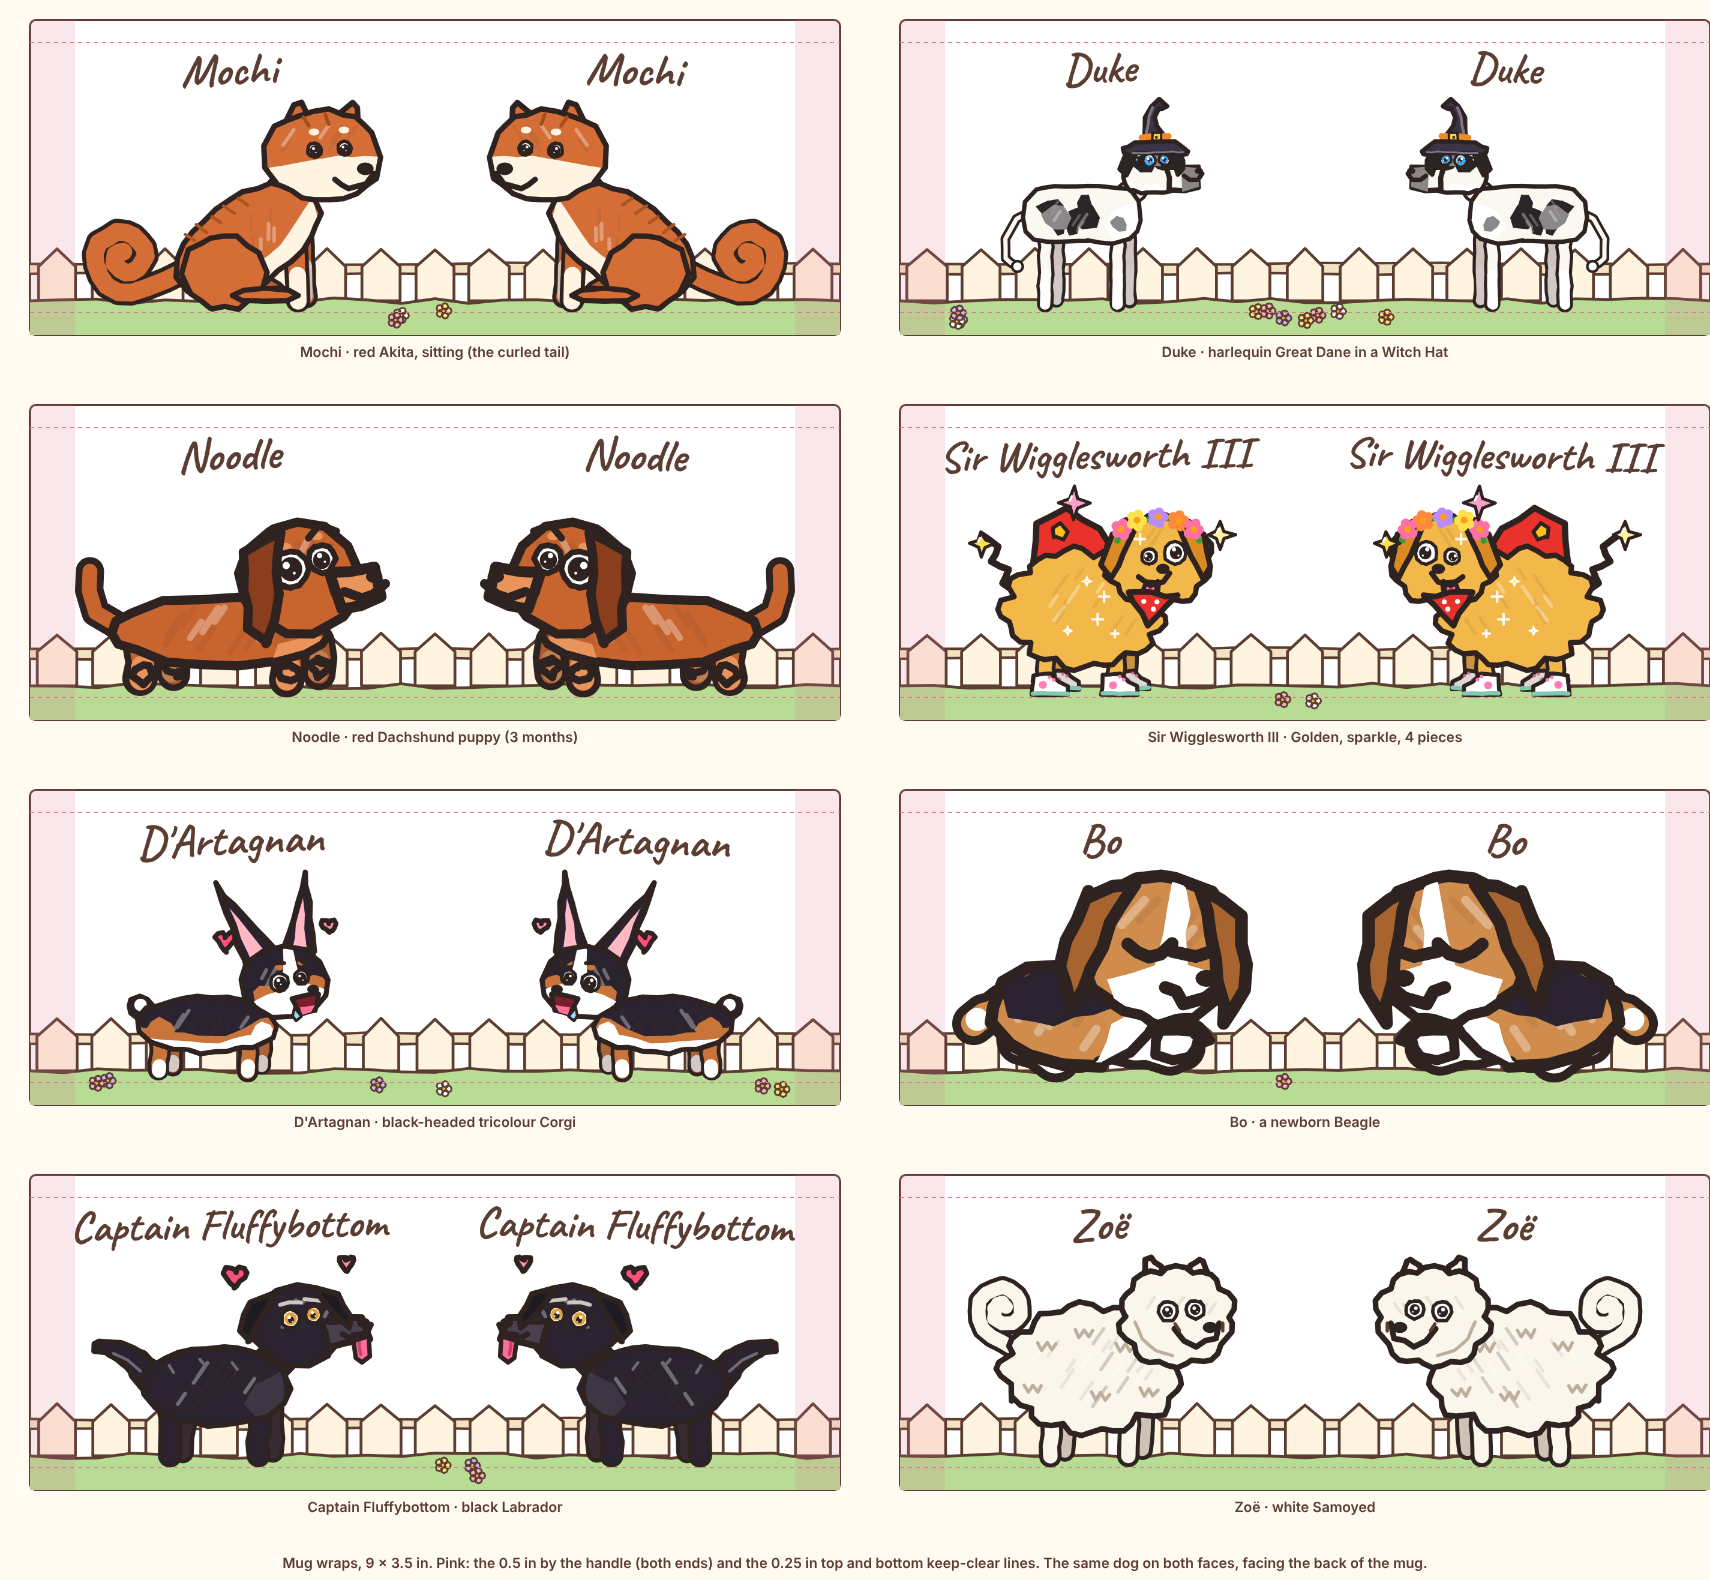
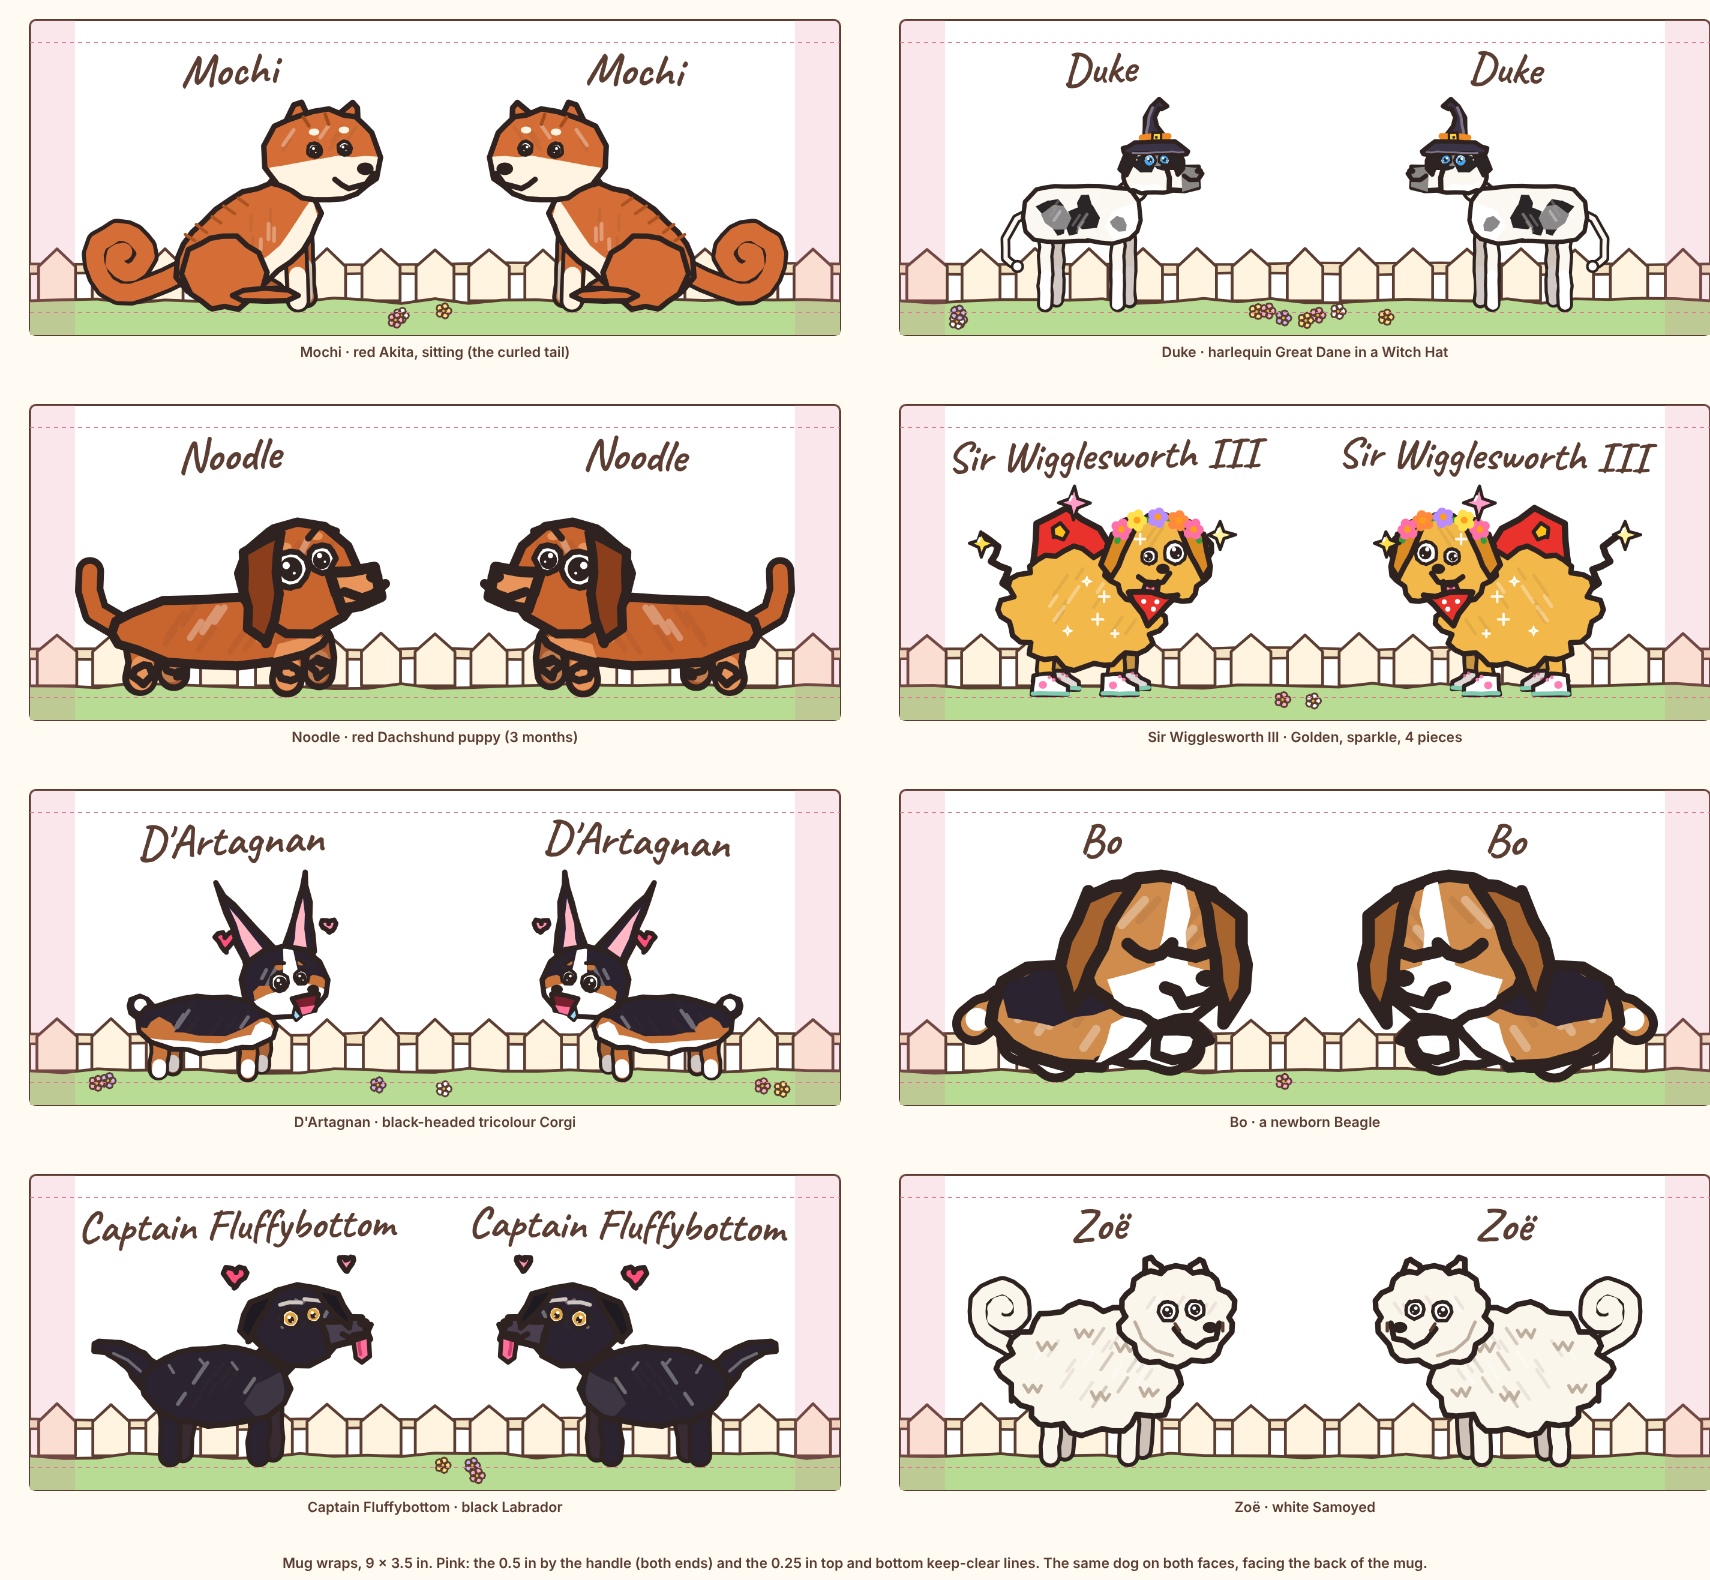
Merch part 9: R2-m4, a long mug name keeps 25 px clear of the handle line (build pp1-6df20bb6; the pre-launch pp1-5688199b folder removed; the mug sample remade)
Claude-Session: https://claude.ai/code/session_01D6KLY4FcqQgUYQKpcr8J68

diff --git a/site/merch/print/pp1-6df20bb6/pawprint.js b/site/merch/print/pp1-6df20bb6/pawprint.js
@@ -4902,8 +4902,8 @@ function PawPrintMake(PA, PG, FONT, NAMES, BUILD) {
     mug: { id: 'mug', name: 'Mug, 11 oz white', launch: true, w: 2700, h: 1050, dpi: DPI, inches: [9, 3.5], transparent: true,
       printful: { product: 19, placement: 'default', technique: 'sublimation' },
       // one face per side, centred at sides[]: the dog fills sideW x (height - name), the name a nameW-wide band above it, as tall as the name needs at nameMin and
-      // at most nameH[1] (it takes what the dog leaves at 80 mm, never less than its own line)
-      safe: { top: 75, bottom: 75, ends: 150 }, sides: [675, 2025], sideW: 1050, nameW: 1050, strip: 300, nameH: [100, 190], nameMin: NAME_MIN_PX,
+      // at most nameH[1] (it takes what the dog leaves at 80 mm, never less than its own line); a name keeps nameIn px clear of the handle keep-clear line
+      safe: { top: 75, bottom: 75, ends: 150 }, sides: [675, 2025], sideW: 1050, nameW: 1050, nameIn: 25, strip: 300, nameH: [100, 190], nameMin: NAME_MIN_PX,
       scale: 'fill', poses: POSE3, colours: WHITE },
     // no stickers at launch (owner, 24 Nov 2026): the sheet is kept and tested, but not offered (launch: false)
     stickers: { id: 'stickers', name: 'Kiss-cut sticker sheet, A5', launch: false, w: 1749, h: 2481, dpi: DPI, inches: [5.83, 8.27], transparent: true,
@@ -5082,7 +5082,15 @@ function PawPrintMake(PA, PG, FONT, NAMES, BUILD) {
     out.push(weight(yardStrip(P.w, P.h - P.strip, P.strip, MIN_PX * 1.6, (r.p ^ 0x5A5A) >>> 0, keep, S.ends), 1, MIN_PX).s);
     out.push(...dogs);
     let size = 0;
-    if (name) P.sides.forEach((cx, i) => { const N = fitName(name, [cx - P.nameW / 2, top, P.nameW, ns], Math.max(ns * 0.8, P.nameMin), mugRot(name, i), P.nameMin); if (!N) throw new Error('name: long'); out.push(N.svg); names.push(N.bb); size = N.size; });
+    // second review (R2-m4): a name stays P.nameIn px inside the handle's keep-clear line: centred over its dog, and a long one that would come
+    // nearer the handle moves towards the middle of its side by what it lacks (the same band width, so the same size; nameFit is unchanged)
+    if (name) P.sides.forEach((cx, i) => {
+      const fit = (x0) => fitName(name, [x0, top, P.nameW, ns], Math.max(ns * 0.8, P.nameMin), mugRot(name, i), P.nameMin);
+      let N = fit(cx - P.nameW / 2); if (!N) throw new Error('name: long');
+      const lack = i ? N.bb[2] - (P.w - S.ends - P.nameIn) : S.ends + P.nameIn - N.bb[0];
+      if (lack > 0) { N = fit(cx - P.nameW / 2 + (i ? -lack : lack)); if (!N) throw new Error('name: long'); }
+      out.push(N.svg); names.push(N.bb); size = N.size;
+    });
     Object.assign(st, { k: f2(k), artMM: f2(240 * k / MM), dogBox: boxes, nest: nests, name: name ? { text: name, size, bb: names } : null });
     return out.join('');
   }
@@ -5259,6 +5267,6 @@ function PawPrintMake(PA, PG, FONT, NAMES, BUILD) {
 if (typeof module !== 'undefined' && module.exports) module.exports = PawPrintMake;
 
   return PawPrintMake; })(undefined);
-  var api = make(shim.PawArt, shim.PawGenes, font, names, '5688199b');
+  var api = make(shim.PawArt, shim.PawGenes, font, names, '6df20bb6');
   if (typeof module !== 'undefined' && module.exports) module.exports = api; else G.PawPrint = api;
 })(typeof self !== 'undefined' ? self : globalThis);

diff --git a/merch/test_pawprint.js b/merch/test_pawprint.js
@@ -211,14 +211,18 @@ console.log('# the tee');
 
 console.log('# the mug');
 {
-  let all = 0, small = 1e9, out = [], faceOk = 0, nmin = 1e9;
+  let all = 0, small = 1e9, out = [], faceOk = 0, nmin = 1e9, gap = 1e9, moved = 0; const NI = P.PRODUCTS.mug.nameIn;
   for (let b = 0; b < P.BREEDS.length; b++) for (const a of [0, 1, 2]) for (const pose of ['stand', 'sit', 'happy']) for (const dress of [0, 1]) {
     const r = Object.assign({ v: 1, b, g: null, e: 0, p: b * 31 + a, a, s: 'f', o: [16, 12], n: 'Captain Fluffybottom' }, dress ? { o: [Wi('Witch Hat'), Wi('Bat Wings')], sp: 1 } : {});
     P.print(r, { product: 'mug', pose }); const st = P.print.last; all++; small = Math.min(small, st.artMM); nmin = Math.min(nmin, st.name.size);
-    const bad = st.dogBox.some((x) => x[0] < 150 - 0.01 || x[2] > 2550 + 0.01 || x[1] < 75 - 0.01 || x[3] > 975 + 0.01) || st.name.bb.some((x) => x[1] < 75 - 0.01 || x[3] > 975 + 0.01 || x[0] < 150 || x[2] > 2550) || !st.dogBox.every((x, i) => inside(x, st.nest[i]));
+    const bad = st.dogBox.some((x) => x[0] < 150 - 0.01 || x[2] > 2550 + 0.01 || x[1] < 75 - 0.01 || x[3] > 975 + 0.01) || st.name.bb.some((x) => x[1] < 75 - 0.01 || x[3] > 975 + 0.01 || x[0] < 150 + NI - 0.01 || x[2] > 2550 - NI + 0.01) || !st.dogBox.every((x, i) => inside(x, st.nest[i]));
     if (bad) out.push(P.BREEDS[b] + a + pose + dress);
-    if (st.name.bb.every((x, i) => x[2] - x[0] <= P.PRODUCTS.mug.nameW + 0.01 && Math.abs((x[0] + x[2]) / 2 - P.PRODUCTS.mug.sides[i]) < 1) && st.name.bb.every((x, i) => st.dogBox[i][1] >= x[3])) faceOk++;
+    // centred on its side, or (second review R2-m4) a long name moved towards the middle just enough to keep nameIn px from the handle line
+    const placed = (x, i) => Math.abs((x[0] + x[2]) / 2 - P.PRODUCTS.mug.sides[i]) < 1 || (i ? Math.abs(x[2] - (2550 - NI)) < 0.02 && (x[0] + x[2]) / 2 < P.PRODUCTS.mug.sides[i] : Math.abs(x[0] - (150 + NI)) < 0.02 && (x[0] + x[2]) / 2 > P.PRODUCTS.mug.sides[i]);
+    if (st.name.bb.every((x, i) => x[2] - x[0] <= P.PRODUCTS.mug.nameW + 0.01 && placed(x, i)) && st.name.bb.every((x, i) => st.dogBox[i][1] >= x[3])) faceOk++;
+    st.name.bb.forEach((x, i) => { gap = Math.min(gap, i ? 2550 - x[2] : x[0] - 150); if (Math.abs((x[0] + x[2]) / 2 - P.PRODUCTS.mug.sides[i]) >= 1) moved++; });
   }
+  ok(NI >= 20 && NI <= 30 && gap >= NI - 0.01 && moved > 0, `second review R2-m4: "Captain Fluffybottom" keeps ${NI} px clear of the 0.5 in handle line on both ends (closest ${gap} px; ${moved} long names moved towards the middle)`);
   ok(!out.length, `the whole drawing and the name stay 0.25 in from top and bottom and 0.5 in from both ends (the handle), on both sides: ${all} prints (40 breeds x 3 ages x 3 poses, two outfits, one with sparkle)${out.length ? ' FAIL: ' + out.slice(0, 5) : ''}`);
   ok(small >= P.MIN_ART_MM, `the dog's art box is never under 80 mm on the mug: smallest ${small} mm`);
   { // part 9 art review m5: the yard strip joins up at the handle: no picket cut at either end (the seam falls in a whole gap), the rail and

diff --git a/merch/pawprint_core.js b/merch/pawprint_core.js
@@ -387,8 +387,8 @@ function PawPrintMake(PA, PG, FONT, NAMES, BUILD) {
     mug: { id: 'mug', name: 'Mug, 11 oz white', launch: true, w: 2700, h: 1050, dpi: DPI, inches: [9, 3.5], transparent: true,
       printful: { product: 19, placement: 'default', technique: 'sublimation' },
       // one face per side, centred at sides[]: the dog fills sideW x (height - name), the name a nameW-wide band above it, as tall as the name needs at nameMin and
-      // at most nameH[1] (it takes what the dog leaves at 80 mm, never less than its own line)
-      safe: { top: 75, bottom: 75, ends: 150 }, sides: [675, 2025], sideW: 1050, nameW: 1050, strip: 300, nameH: [100, 190], nameMin: NAME_MIN_PX,
+      // at most nameH[1] (it takes what the dog leaves at 80 mm, never less than its own line); a name keeps nameIn px clear of the handle keep-clear line
+      safe: { top: 75, bottom: 75, ends: 150 }, sides: [675, 2025], sideW: 1050, nameW: 1050, nameIn: 25, strip: 300, nameH: [100, 190], nameMin: NAME_MIN_PX,
       scale: 'fill', poses: POSE3, colours: WHITE },
     // no stickers at launch (owner, 24 Nov 2026): the sheet is kept and tested, but not offered (launch: false)
     stickers: { id: 'stickers', name: 'Kiss-cut sticker sheet, A5', launch: false, w: 1749, h: 2481, dpi: DPI, inches: [5.83, 8.27], transparent: true,
@@ -567,7 +567,15 @@ function PawPrintMake(PA, PG, FONT, NAMES, BUILD) {
     out.push(weight(yardStrip(P.w, P.h - P.strip, P.strip, MIN_PX * 1.6, (r.p ^ 0x5A5A) >>> 0, keep, S.ends), 1, MIN_PX).s);
     out.push(...dogs);
     let size = 0;
-    if (name) P.sides.forEach((cx, i) => { const N = fitName(name, [cx - P.nameW / 2, top, P.nameW, ns], Math.max(ns * 0.8, P.nameMin), mugRot(name, i), P.nameMin); if (!N) throw new Error('name: long'); out.push(N.svg); names.push(N.bb); size = N.size; });
+    // second review (R2-m4): a name stays P.nameIn px inside the handle's keep-clear line: centred over its dog, and a long one that would come
+    // nearer the handle moves towards the middle of its side by what it lacks (the same band width, so the same size; nameFit is unchanged)
+    if (name) P.sides.forEach((cx, i) => {
+      const fit = (x0) => fitName(name, [x0, top, P.nameW, ns], Math.max(ns * 0.8, P.nameMin), mugRot(name, i), P.nameMin);
+      let N = fit(cx - P.nameW / 2); if (!N) throw new Error('name: long');
+      const lack = i ? N.bb[2] - (P.w - S.ends - P.nameIn) : S.ends + P.nameIn - N.bb[0];
+      if (lack > 0) { N = fit(cx - P.nameW / 2 + (i ? -lack : lack)); if (!N) throw new Error('name: long'); }
+      out.push(N.svg); names.push(N.bb); size = N.size;
+    });
     Object.assign(st, { k: f2(k), artMM: f2(240 * k / MM), dogBox: boxes, nest: nests, name: name ? { text: name, size, bb: names } : null });
     return out.join('');
   }

diff --git a/site/merch/index.html b/site/merch/index.html
@@ -169,7 +169,7 @@
 
 <div class="petals" id="petals" aria-hidden="true"></div>
 <script src="/js/site.js" defer></script>
-<script src="/merch/print/pp1-5688199b/pawprint.js"></script>
+<script src="/merch/print/pp1-6df20bb6/pawprint.js"></script>
 <script src="/merch/api_fake.js"></script>
 <script src="/merch/api.js"></script>
 <script src="/merch/mock.js"></script>

diff --git a/docs/design/merch/PART1.md b/docs/design/merch/PART1.md
@@ -53,3 +53,10 @@ New build **`pp1-5688199b`** (was `pp1-3f73333c`, never used for an order: that 
 - **m5, the mug's yard strip** joins up at the handle: a whole number of pickets with half a gap at each end (the seam falls in a whole gap), the rail and the grass line level at x 0 and x 2700 (they wobble only in between), and no flower within the 0.5 in keep-clear at either end (`yardStrip(..., ends)`).
 - **m6, white tees**: a crisp white backing under the drawing and the name (above, "Edges on coloured fabric"). Each backing shape names its own `stroke`, so the box the 12-band renderer measures shape by shape (to leave out shapes outside a band) holds its whole stroke: without it the banded newborn tee kept 152 soft pixels at band edges (one pass: none). Measured: 0 soft pixels in the 12 bands (8 sample dogs x 3 poses) and in Chromium (the 8 sample dogs); resvg against Chromium on white tees within `MATCH`.
 - Tests: `merch/test_pawprint.js` 88 checks (was 84: the long-name widths, the white backing in the SVG, the mug strip over 24 wraps, and the rendered white tees with no soft pixel; the line-width walks skip the backing, which carries no ink); `render_chromium.mjs` also draws the white tee of each sample dog with both renderers and checks alpha 0 / 255 on every tee.
+
+## Second review fix (25 Nov 2026, print files; `docs/reviews/MERCH_PART9_second_review.md` R2-m4)
+
+New build **`pp1-6df20bb6`** (was `pp1-5688199b`, never used for an order: that folder is removed from `site/merch/print/`).
+
+- **R2-m4, long mug names**: a name keeps `PRODUCTS.mug.nameIn` (25 px) clear of the 0.5 in handle line. It is centred over its dog as before; a long name that would come nearer the handle moves towards the middle of its side by what it lacks (the band stays 1050 px wide, so the letters keep their size and `nameOk(s, { product: 'mug' })` accepts the same names). "Captain Fluffybottom" now runs from x 175 to 1225 and 1475 to 2525 (was 150 and 2550). Short names do not move.
+- Tests: `merch/test_pawprint.js` 89 checks (the new one: 25 px from the handle line on both ends over 1440 long-name mugs); the face check allows a long name moved inward by exactly that much.
